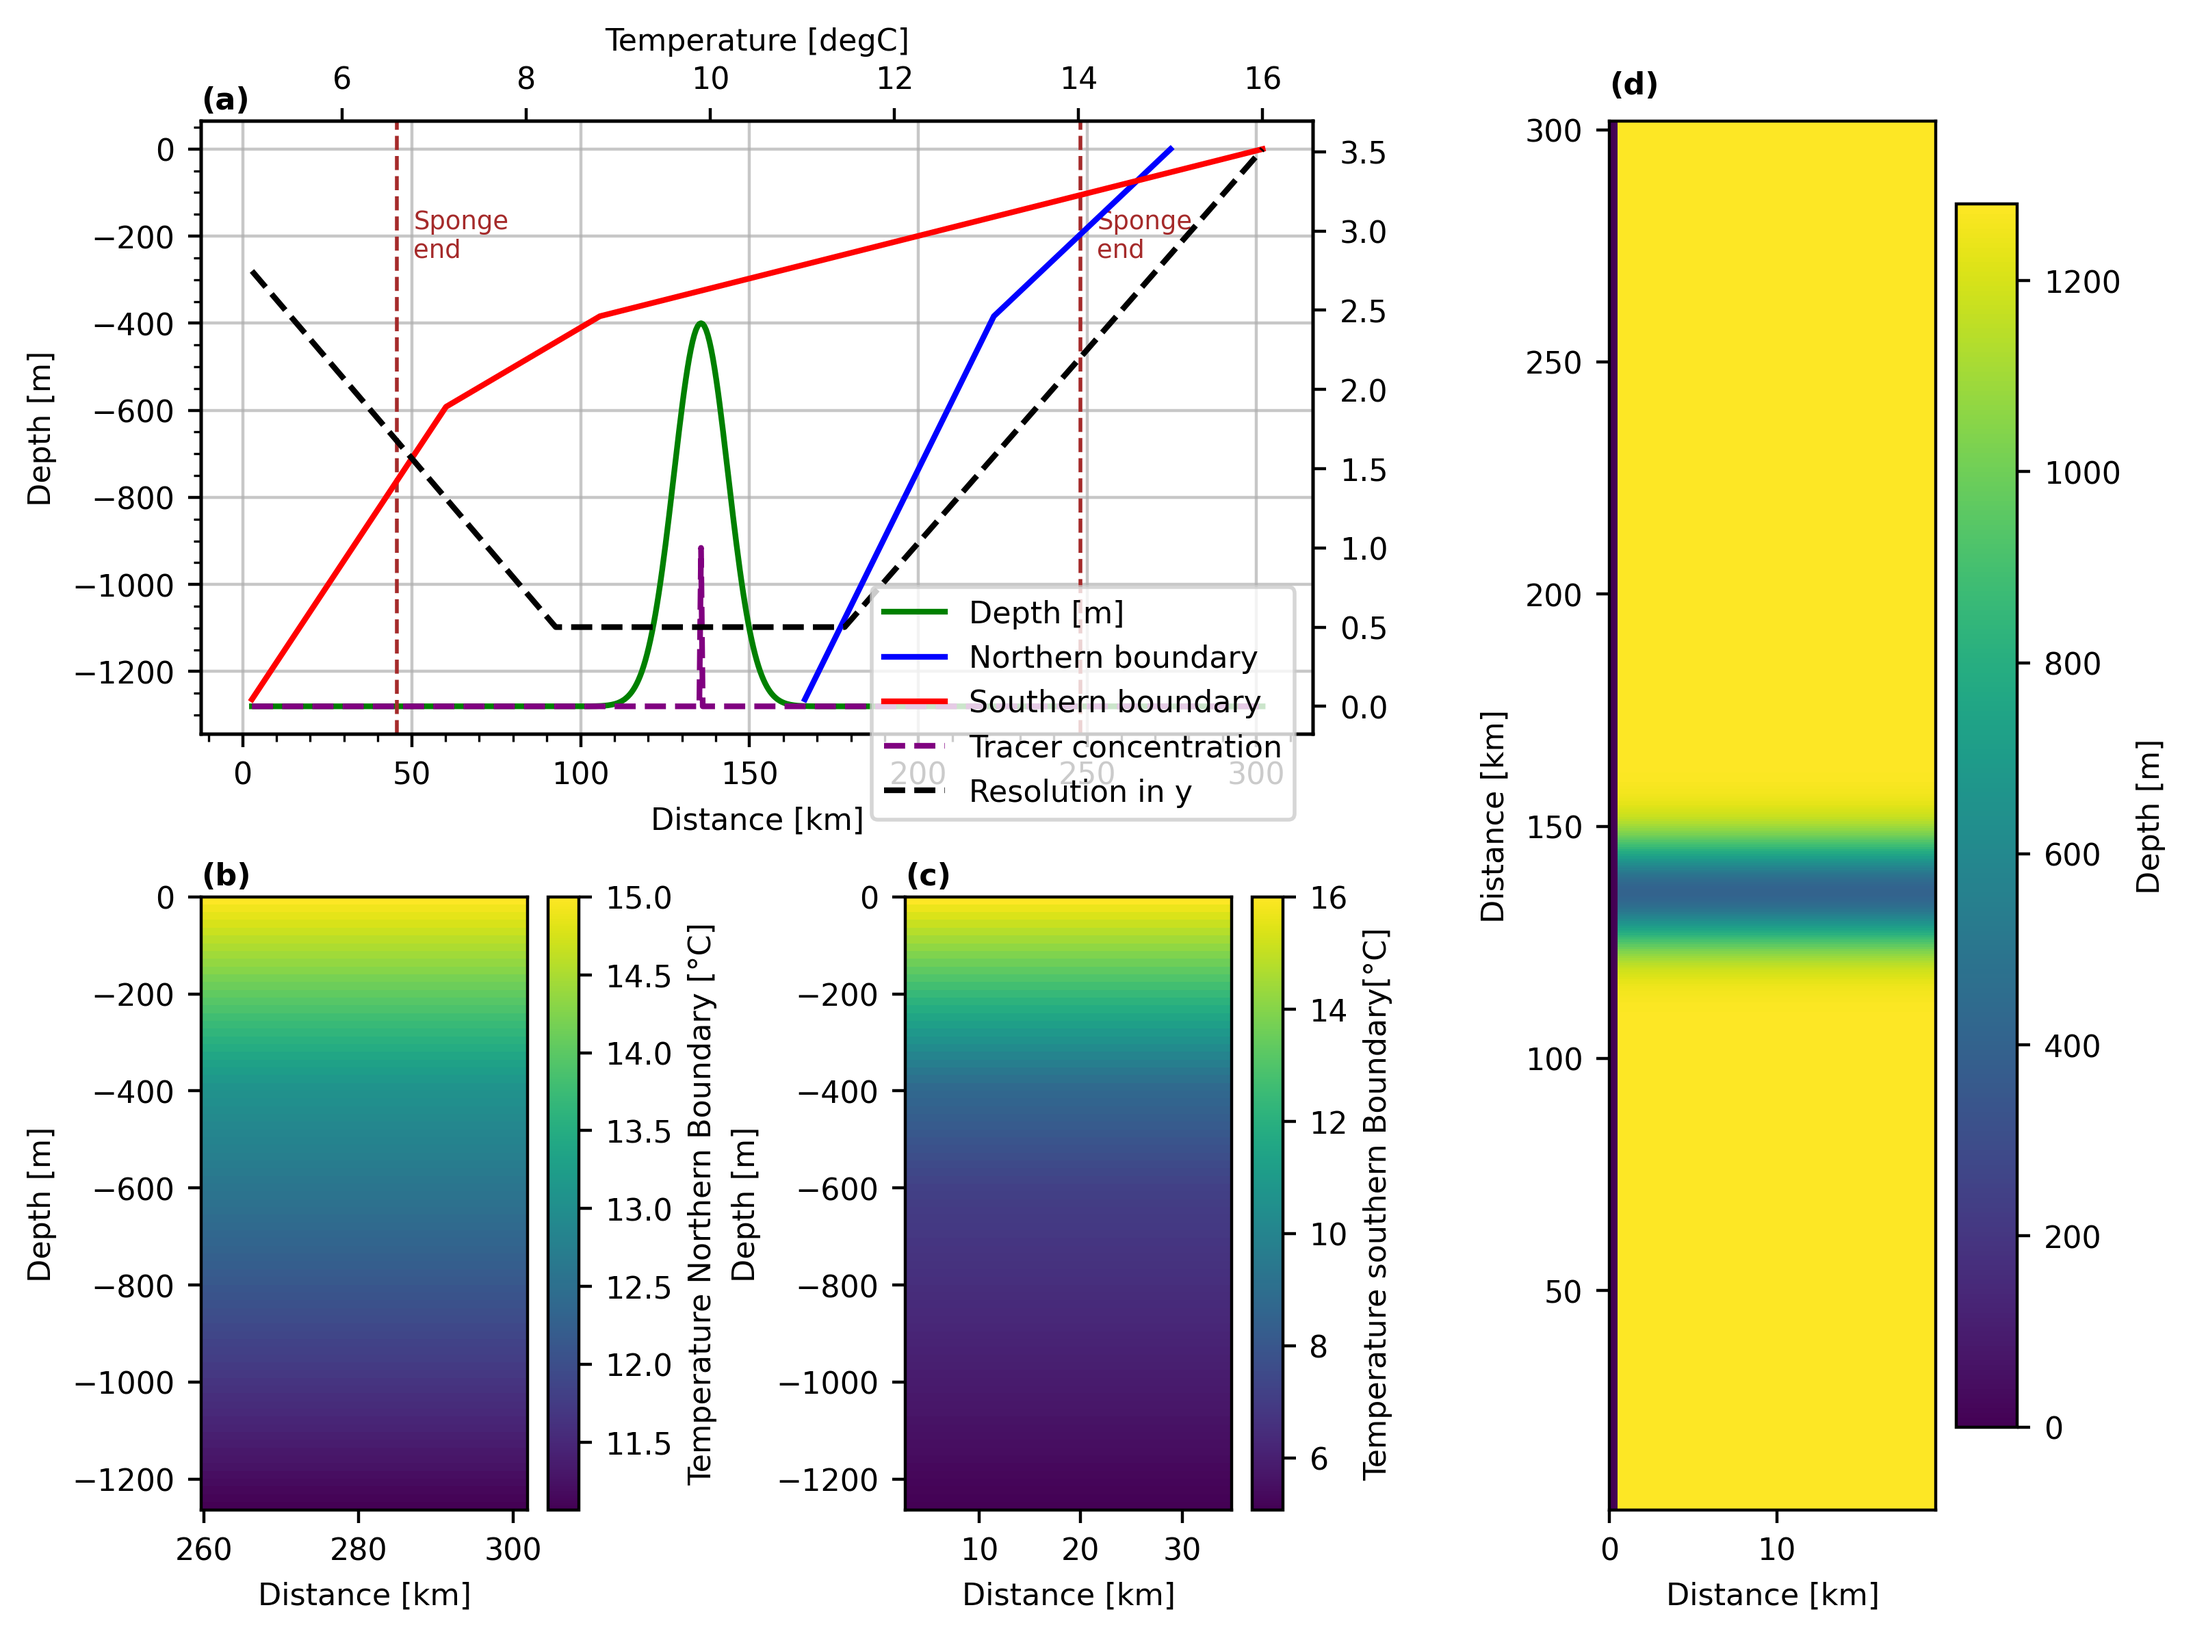
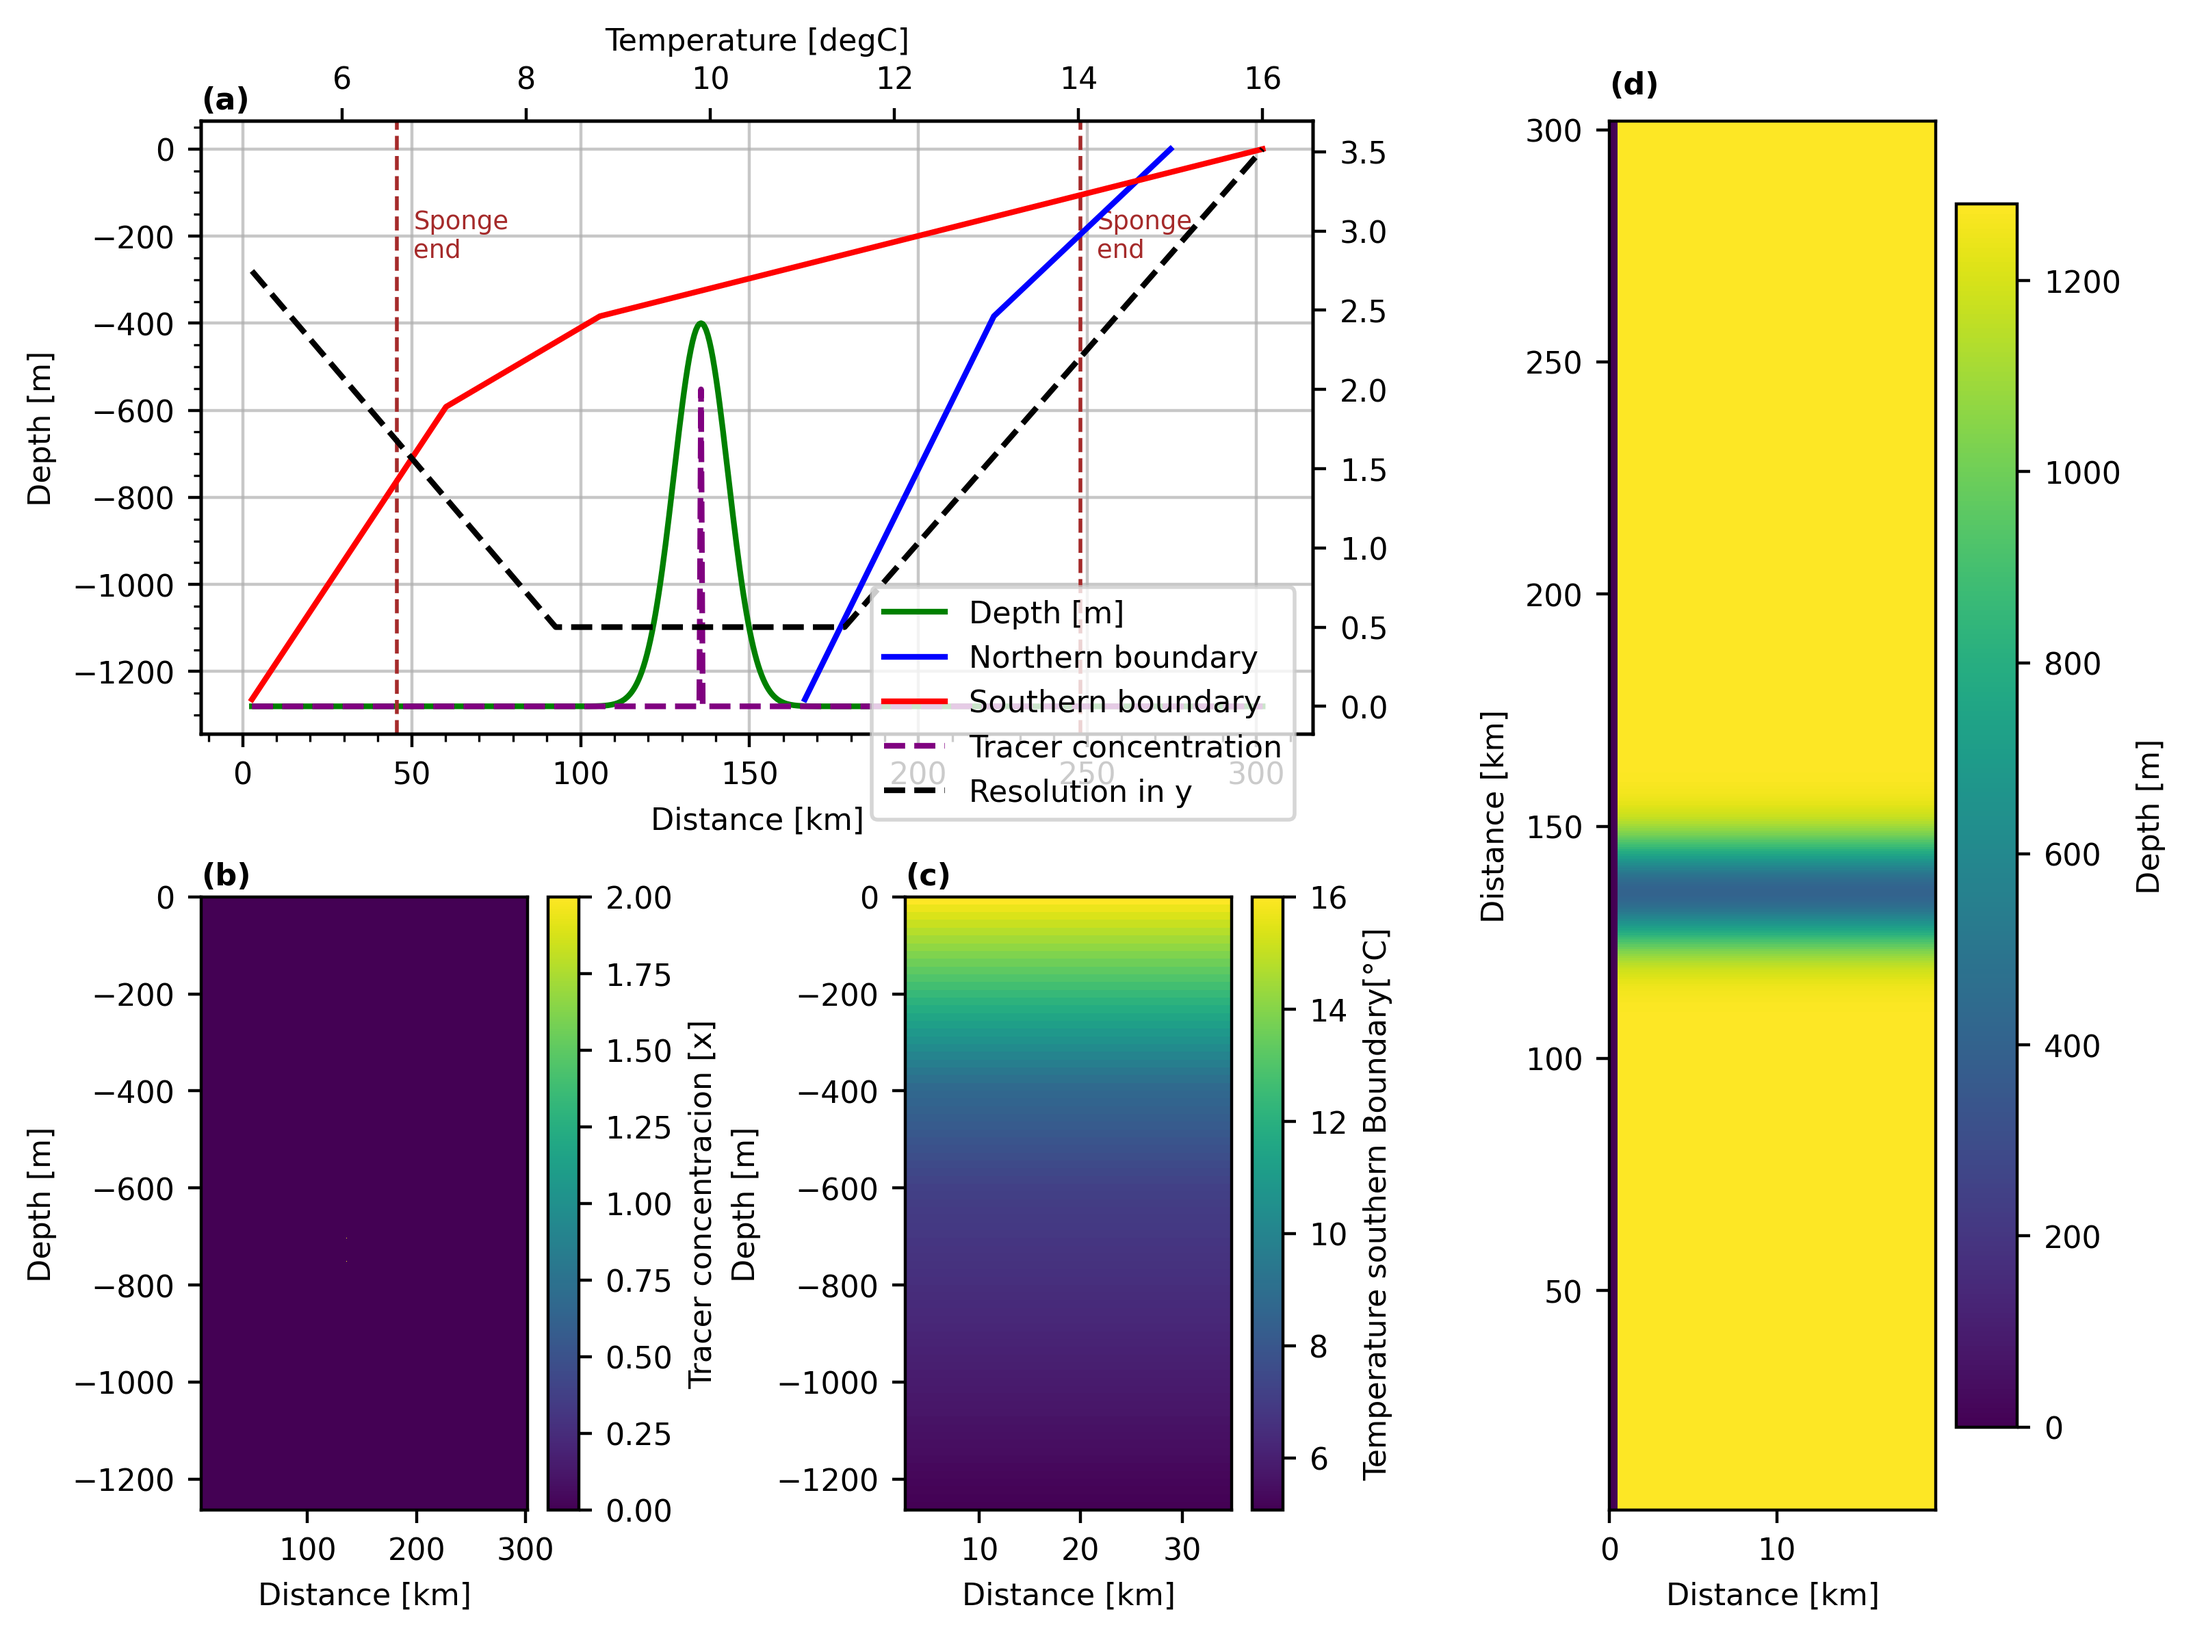
New runs with heatflux

diff --git a/tracers/code/SIZE.h b/tracers/code/SIZE.h
@@ -1,0 +1,63 @@
+CBOP
+C    !ROUTINE: SIZE.h
+C    !INTERFACE:
+C    include SIZE.h
+C    !DESCRIPTION: \bv
+C     *==========================================================*
+C     | SIZE.h Declare size of underlying computational grid.
+C     *==========================================================*
+C     | The design here supports a three-dimensional model grid
+C     | with indices I,J and K. The three-dimensional domain
+C     | is comprised of nPx*nSx blocks (or tiles) of size sNx
+C     | along the first (left-most index) axis, nPy*nSy blocks
+C     | of size sNy along the second axis and one block of size
+C     | Nr along the vertical (third) axis.
+C     | Blocks/tiles have overlap regions of size OLx and OLy
+C     | along the dimensions that are subdivided.
+C     *==========================================================*
+C     \ev
+C
+C     Voodoo numbers controlling data layout:
+C     sNx :: Number of X points in tile.
+C     sNy :: Number of Y points in tile.
+C     OLx :: Tile overlap extent in X.
+C     OLy :: Tile overlap extent in Y.
+C     nSx :: Number of tiles per process in X.
+C     nSy :: Number of tiles per process in Y.
+C     nPx :: Number of processes to use in X.
+C     nPy :: Number of processes to use in Y.
+C     Nx  :: Number of points in X for the full domain.
+C     Ny  :: Number of points in Y for the full domain.
+C     Nr  :: Number of points in vertical direction.
+CEOP
+      INTEGER sNx
+      INTEGER sNy
+      INTEGER OLx
+      INTEGER OLy
+      INTEGER nSx
+      INTEGER nSy
+      INTEGER nPx
+      INTEGER nPy
+      INTEGER Nx
+      INTEGER Ny
+      INTEGER Nr
+      PARAMETER (
+     &           sNx =  10,
+     &           sNy =  160,
+     &           OLx =   2,
+     &           OLy =   2,
+     &           nSx =   1,
+     &           nSy =   1,
+     &           nPx =   1,
+     &           nPy =   1,
+     &           Nx  = sNx*nSx*nPx,
+     &           Ny  = sNy*nSy*nPy,
+     &           Nr  =   80)
+
+C     MAX_OLX :: Set to the maximum overlap region size of any array
+C     MAX_OLY    that will be exchanged. Controls the sizing of exch
+C                routine buffers.
+      INTEGER MAX_OLX
+      INTEGER MAX_OLY
+      PARAMETER ( MAX_OLX = OLx,
+     &            MAX_OLY = OLy )

diff --git a/tracers/code/OBCS_OPTIONS.h b/tracers/code/OBCS_OPTIONS.h
@@ -1,0 +1,62 @@
+C CPP options file for OBCS package
+C Use this file for selecting options within the OBCS package
+
+#ifndef OBCS_OPTIONS_H
+#define OBCS_OPTIONS_H
+#include "PACKAGES_CONFIG.h"
+#include "CPP_OPTIONS.h"
+
+#ifdef ALLOW_OBCS
+C Package-specific Options & Macros go here
+
+C Enable individual open boundaries
+#define ALLOW_OBCS_NORTH
+#define ALLOW_OBCS_SOUTH
+#undef ALLOW_OBCS_EAST
+#undef ALLOW_OBCS_WEST
+
+C This include hooks to the Orlanski Open Boundary Radiation code
+#undef ALLOW_ORLANSKI
+
+C Enable OB values to be prescribed via external fields that are read
+C from a file
+#define ALLOW_OBCS_PRESCRIBE
+
+C Enable OB conditions following Stevens (1990)
+#undef ALLOW_OBCS_STEVENS
+
+C This includes hooks to sponge layer treatment of uvel, vvel
+#define ALLOW_OBCS_SPONGE
+
+C balance barotropic velocity
+#define ALLOW_OBCS_BALANCE
+
+C Use older implementation of obcs in seaice-dynamics
+C note: most of the "experimental" options listed below have not yet
+C       been implementated in new version.
+#undef OBCS_UVICE_OLD
+
+#ifdef OBCS_UVICE_OLD
+C     The following five CPP options are experimental and aim to deal
+C     with artifacts due to the low-frequency specification of sea-ice
+C     boundary conditions compared to the model forcing frequency.
+C     Ice convergence at edges can cause model to blow up.  The
+C     following CPP option fixes this problem at the expense of less
+C     accurate boundary conditions.
+#undef OBCS_SEAICE_AVOID_CONVERGENCE
+
+C     Smooth the component of sea-ice velocity perpendicular to the edge.
+#undef OBCS_SEAICE_SMOOTH_UVICE_PERP
+
+C     Smooth the component of sea ice velocity parallel to the edge.
+#undef OBCS_SEAICE_SMOOTH_UVICE_PAR
+
+C     Compute rather than specify seaice velocities at the edges.
+#undef OBCS_SEAICE_COMPUTE_UVICE
+#endif /* OBCS_UVICE_OLD */
+
+C     Smooth the tracer sea-ice variables near the edges.
+#undef OBCS_SEAICE_SMOOTH_EDGE
+
+#endif /* ALLOW_OBCS */
+#endif /* OBCS_OPTIONS_H */

diff --git a/tracers/code/DIAGNOSTICS_SIZE.h b/tracers/code/DIAGNOSTICS_SIZE.h
@@ -1,0 +1,28 @@
+C     Diagnostics Array Dimension
+C     ---------------------------
+C     ndiagMax   :: maximum total number of available diagnostics
+C     numlists   :: maximum number of diagnostics list (in data.diagnostics)
+C     numperlist :: maximum number of active diagnostics per list (data.diagnostics)
+C     numLevels  :: maximum number of levels to write    (data.diagnostics)
+C     numDiags   :: maximum size of the storage array for active 2D/3D diagnostics
+C     nRegions   :: maximum number of regions (statistics-diagnostics)
+C     sizRegMsk  :: maximum size of the regional-mask (statistics-diagnostics)
+C     nStats     :: maximum number of statistics (e.g.: aver,min,max ...)
+C     diagSt_size:: maximum size of the storage array for statistics-diagnostics
+C Note : may need to increase "numDiags" when using several 2D/3D diagnostics,
+C  and "diagSt_size" (statistics-diags) since values here are deliberately small.
+      INTEGER    ndiagMax
+      INTEGER    numlists, numperlist, numLevels
+      INTEGER    numDiags
+      INTEGER    nRegions, sizRegMsk, nStats
+      INTEGER    diagSt_size
+      PARAMETER( ndiagMax = 500 )
+      PARAMETER( numlists = 10, numperlist = 50, numLevels=8*10)
+      PARAMETER( numDiags = 25*80 )
+      PARAMETER( nRegions = 0 , sizRegMsk = 1 , nStats = 4 )
+      PARAMETER( diagSt_size = 10*10 )
+
+
+CEH3 ;;; Local Variables: ***
+CEH3 ;;; mode:fortran ***
+CEH3 ;;; End: ***
